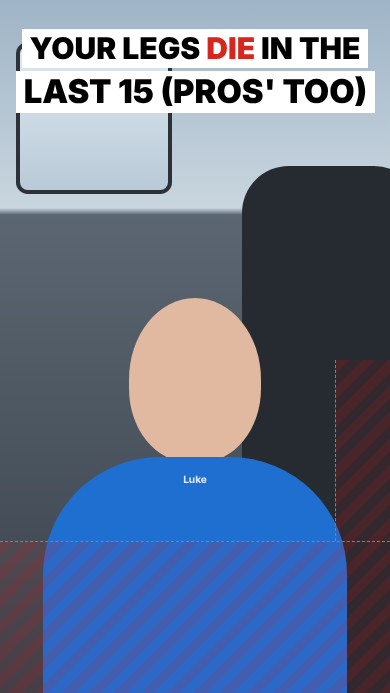
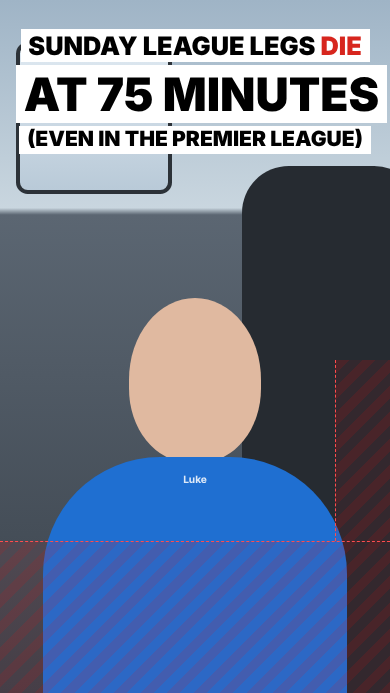
Match reel repackaged: SUNDAY LEAGUE LEGS DIE / AT 75 MINUTES / (EVEN IN THE PREMIER LEAGUE); walk reel killed; scorecard must-pass: every of what / in what / who answered on screen (Luke 17 Nov)
Claude-Session: https://claude.ai/code/session_01C5bFwjsy7wubJR84HAMdDJ

Changed region(s): [[0.0308, 0.0303, 1.0, 0.2424]]

diff --git a/ideas/engine-room-nutrition/2026-11-17-script-match-last-15.md b/ideas/engine-room-nutrition/2026-11-17-script-match-last-15.md
@@ -4,26 +4,27 @@ gate: v1
 brief_ok: Luke 17 Nov ("I'd like to also do that one I had about the matches today... give me both"); brief ideas/engine-room-nutrition/2026-11-16-brief-match-last-15.md
 generated_at: 2026-11-17
 teleprompter: 2026-11-17-teleprompter-match-last-15.txt
+luke_note: 17 Nov, Luke: "last 15 of what? pros in what? what sport?" Title repackaged to name the sport (Sunday league), the minute (75) and, on his yes, the Premier League bracket; line one and stage 1 changed to match
 fixed_after_review: G21 (caption plan for a 10:30am and a 2pm kick-off: meal times, about 2 g/kg for 60, 75 and 90 kg with the food, 30 g after the warm-up and at half-time), G22 (Premier League line cut: under 1.5 g/kg sits inside the 1 to 3 g/kg guideline; 'on a high-carb diet for 2 days'; 'just because you're unfit'; a 'Match day fuel, soccer' block added to FACTS), G23 ('a 30 gram gel or 6 jelly sweets'; porridge for a morning match, pasta in the afternoon), G29 (new line-one shape; new follow line)
 basis: the brief (the levers, the facts, the pre-mortem); UEFA expert group statement on nutrition in elite football (Collins and others, BJSM 2021: pre-match meal 1 to 3 g/kg 3 to 4 hours before kick-off; about 30 to 60 g after the warm-up and again at half-time; 6 to 8 g/kg a day around matches), read from the full text 17 Nov; Harper 2017 (60 g per 500 ml: 250 ml after the warm-up and 250 ml at half-time); Mohr 2003; Krustrup 2006; Balsom 1999; Anderson 2017; Wenger's first Arsenal away trip (1996)
 format: Instagram trial reel from ERN (non-followers; auto-share off, no collaborator), Tue 17 Nov. Not ERN TikTok (3 Nov: runners left at 0:03). Profile only if it beats 4K views and 40% skip at 24 hours, and not before 22 Nov (row 31: the fourth hour's twist)
 ---
 
-# YOUR LEGS DIE IN THE / LAST 15 (PROS' TOO)
+# SUNDAY LEAGUE LEGS DIE / AT 75 MINUTES
 
 ## Gate fields
-- OST: YOUR LEGS DIE IN THE / LAST 15 (PROS' TOO)
+- OST: SUNDAY LEAGUE LEGS DIE / AT 75 MINUTES
 - OST score: 10/10 (OST-SCORECARD.md, P210; the 2-line rebuild of SUNDAY LEAGUE LEGS DIE / IN THE LAST 15 / (SO DO THE PROS) after the 17 Nov pre-mortem)
-- Markers: THE DAY BEFORE / 3 HOURS BEFORE / WARM-UP AND HALF-TIME / THE LAST 15
-- Gap phrase: go in the last 15 minutes
+- Markers: THE DAY BEFORE / 3 HOURS BEFORE / WARM-UP AND HALF-TIME / THE LAST 15 MINUTES
+- Gap phrase: legs go at 75 minutes
 - Repeat line: fitness gets you to the last 15, but fuel gets you through it
 - Gap held by: "That's the empty 15, when the lad you skinned beats you to every ball, but you can fill it."
-- Gap closed by: THE LAST 15
+- Gap closed by: THE LAST 15 MINUTES
 - Turn: "When players had muscle taken from their legs after a match, about half the fibres were nearly empty."
 - Frame one: Luke and the title only, top band, full width, black bold on white, DIE in red (P205, P207); nothing else until stage 1; Luke in a football top or plain top, not a running top
 - Frame one words: title only
 - Mockup: ideas/engine-room-nutrition/mockups/2026-11-17-match-frame-one.png
-- Layer title: your legs die in the last 15, and the pros' legs too (why? and what do the pros do?)
+- Layer title: Sunday league legs die at 75 minutes, and Premier League ones fade too (why? and what fixes it?)
 - Layer picture: none (Luke and the title)
 - Layer line one: new to the title (row 29): it isn't your fitness; the legs are nearly empty
 - Worked example goal: none (a 75 kg player's pre-match meal in the caption)
@@ -62,13 +63,13 @@ you can fill it"). No save in the hook (P204). New shape against the last three
 
 ## Script
 
-"Your legs don't go in the last 15 minutes of a Sunday league match just because you're unfit. When players had muscle taken from their legs after a match, about half the fibres were nearly empty."
+"If your legs go at 75 minutes in Sunday league football, it isn't just your fitness. When players had muscle taken from their legs after a match, about half the fibres were nearly empty."
 
 "That's the empty 15, when the lad you skinned beats you to every ball, but you can fill it."
 
 **[THE DAY BEFORE]**
 
-"Even top pros do over a third less hard running in their last 15 than their first. So the fix starts the day before your game. Make half your plate pasta, rice or potatoes at every meal. Players on a high-carb diet for 2 days did about a third more hard running in a match."
+"Even Premier League players do about a fifth less hard running in their last 15 minutes than their first. So the fix starts the day before your game. Make half your plate pasta, rice or potatoes at every meal. Players on a high-carb diet for 2 days did about a third more hard running in a match."
 
 "Save this and check it the day before your next game."
 
@@ -84,7 +85,7 @@ you can fill it"). No save in the hook (P204). New shape against the last three
 
 "Here's what the last 15 looks like when your legs aren't empty."
 
-**[THE LAST 15]**
+**[THE LAST 15 MINUTES]**
 
 "From the hour mark, players who took carbs at half-time were quicker on the ball. So when it goes over the top at 80, you've still got the legs to chase it. Fitness gets you to the last 15, but fuel gets you through it."
 
@@ -114,7 +115,7 @@ Want your own match-day plan? Email us your sport and kick-off time through the 
 | Claim | Source | Status |
 |---|---|---|
 | Not just because you're unfit; after a match about half the fibres in players' legs were nearly empty | FACTS (Match day fuel: Krustrup 2006, about 47% empty or almost empty) | Pass |
-| Top pros do over a third less hard running in their last 15 than their first | FACTS (Mohr 2003, 35 to 45%) | Pass |
+| Premier League players do about a fifth less hard running in their last 15 minutes than their first | FACTS (Bradley 2009, about 20% less high-intensity running, 28 Premier League matches, 2005-06) | Pass (gate chat: confirm the figure against the paper) |
 | Players on a high-carb diet for 2 days did about a third more hard running in a match | FACTS (Balsom 1999, 33%) | Pass |
 | Half your plate pasta, rice or potatoes at every meal the day before | Our translation of UEFA's 6 to 8 g/kg a day (FACTS) | Luke to OK |
 | Eat 3 to 4 hours before kick-off: porridge for a morning match, pasta in the afternoon | FACTS (UEFA 1 to 3 g/kg, 3 to 4 h before) | Pass |

diff --git a/CLAUDE.md b/CLAUDE.md
@@ -216,7 +216,7 @@ a new cause becomes a new row in the same turn.**
 
 **As of 4 November 2026.**
 
-**Tue 17 Nov, two reels gated (ideas chat, Luke: "the two posts for today and the scripts"):** (1) **WALK AT 2.5K / OR YOU'LL WALK AT 32K** (10/10, AT 32K red; replaces the 3-line ULTRARUNNERS title), profile collab + FB + ERN TikTok, `ideas/engine-room-nutrition/2026-11-17-script-walk-on-purpose.md`, one review, 5 fixed; Luke to OK his ultra line and the title's 32K claim. (2) **YOUR LEGS DIE IN THE / LAST 15 (PROS' TOO)** (10/10, DIE red; soccer), IG trial reel from ERN only, `ideas/engine-room-nutrition/2026-11-17-script-match-last-15.md`, one review, 4 fixed; FACTS "Match day fuel, soccer" added (UEFA 2021 read from the full text; the Premier League under-eating line cut). Mockups `ideas/engine-room-nutrition/mockups/2026-11-17-*-frame-one.png`.
+**Tue 17 Nov, two reels gated (ideas chat, Luke: "the two posts for today and the scripts"):** (1) The walk reel is **killed** (Luke: "walk at 2.5K of what?"; he runs from the start, he doesn't walk). (2) Match reel repackaged after Luke's "last 15 of what? pros in what sport?": **SUNDAY LEAGUE LEGS DIE / AT 75 MINUTES / (EVEN IN THE PREMIER LEAGUE)** (10/10, DIE red; the bracket needs Luke's yes; Bradley 2009 Premier League fade in FACTS; new must-pass on the scorecard: every of what / in what / who answered on screen), IG trial reel from ERN only, `ideas/engine-room-nutrition/2026-11-17-script-match-last-15.md`, one review, 4 fixed; FACTS "Match day fuel, soccer" added (UEFA 2021 read from the full text; the Premier League under-eating line cut). Mockups `ideas/engine-room-nutrition/mockups/2026-11-17-*-frame-one.png`.
 
 **17 Nov, YouTube long-form chat set up:** `youtube/README.md` (monthly calendar, links to podcast and emails); brief `youtube/2027-framework-brief.md`: OUR 2027 FRAMEWORK, Sun 3 Jan, 18 min, built on the tank (about 500 g runs short at about 3 hours): fill it (8 to 10 g/kg), spend it slower (first 10K), top it up (30 g every 30), check it (10K signs); cold open the 4:02 sub-4 finish; email reason a race page with their four numbers; waiting on Luke's 6 answers. Later 17 Nov: the Art O'Neill documentary (race Fri 15 Jan) takes February's slot, out Sun 31 Jan; shot list in the README; title rewritten without the job line (voice.md); Seville guide moved to reels. Then (P214, P215): documentary title 8 WEEKS TO BEAT 10:35 (A 62KM NIGHT RACE, WITH A FULL-TIME JOB): the goal is top 10 in his class (10:35:37 last year), never "top 10" alone; chapter 1 is the bet from podcast ep 1 (Fri 20 Nov) plus the Sat 21 Nov benchmark. P216: no crew, phone only and optional; the documentary is 10 to 12 min, mostly the podcast's bet and result episodes plus 4 phone clips; Jamie an equal co-host (framework: two parts each); Luke's questions cut to 3. Podcast every Sunday from 22 Nov, so long-form moves to Saturdays: framework Sat 2 Jan, documentary Sat 30 Jan, built on the episode 1 predictions replayed against the result episode (Sun 17 Jan). Podcast name: see the podcast plan (ON FUMES recommended); the bar is out of the framework video (an implied claim next to "faster than you deserve").
 

diff --git a/ideas/engine-room-nutrition/OST-SCORECARD.md b/ideas/engine-room-nutrition/OST-SCORECARD.md
@@ -26,6 +26,11 @@ why: Luke, 13 Nov: "you keep reverting to the mean... playing it safe, plain, bo
 - **First, one question:** can the viewer answer the title about themselves in
   one second ("which one are you?")? If yes, it's dead before it's scored.
 
+**The stranger's questions, must-pass (Luke 17 Nov, "last 15 of what? pros in what? what sport? I've told you 100 times"; a repeat of G11 "in what?" and P180, my miss):**
+- Read the title as a stranger and write every "of what? in what? where? who?" it raises. Each must be answered **on screen**, not in line one: the event or sport named (MARATHON, SUNDAY LEAGUE), every number with its unit and its thing (75 MINUTES, 32K, 2.5K OF A MARATHON), every group named exactly (PREMIER LEAGUE, not PROS).
+- WALK AT 2.5K (of what? a parkrun?) and LAST 15 (of what?) / PROS (in what?) both failed this and scored 10. Any unanswered question = 0 on test 3.
+- Never put a habit in Luke's mouth he hasn't told us ("I walk from the start": he runs). His own practice is "Luke to OK" before it reaches a title or line one.
+
 **Tighter wording (16 Nov, pre-mortem 2):**
 - Test 7 fails if the topic is already a common video on other running
   accounts, whatever bracket is added.
@@ -64,3 +69,6 @@ why: Luke, 13 Nov: "you keep reverting to the mean... playing it safe, plain, bo
 | COUNTY PLAYERS EAT / HALF THE CARBS THEY / NEED BEFORE A MATCH (GAA) | 1 | 1 | 1 | 1 | 1 | 1 | 1 | 0 | 0 | 1 | **8** (banked for the championship; needs the paper) |
 | **WALK AT 2.5K / OR YOU'LL WALK AT 32K** (17 Nov, replaces ULTRARUNNERS WALK / ON PURPOSE. / MARATHONERS WALK AT 32K) | 1 | 1 | 1 | 1 | 1 | 1 | 1 | 1 | 1 | 1 | **10**. The 17 Nov pre-mortem: the old title's first word was us (ULTRARUNNERS), its first line needed the third to make sense, and 3 lines need Luke's sign-off under G10. Now an order that sounds mad first, the threat second, 2 lines (12 + 21). Risk: run/walk is known in the US; ours is a race plan tied to the gel clock. The 32K claim is ours (reviewer G22): Luke to OK |
 | **YOUR LEGS DIE IN THE / LAST 15 (PROS' TOO)** (17 Nov, the 2-line rebuild of SUNDAY LEAGUE LEGS DIE / IN THE LAST 15 / (SO DO THE PROS)) | 1 | 1 | 1 | 1 | 1 | 1 | 1 | 1 | 1 | 1 | **10**. YOUR in place of SUNDAY LEAGUE (line one names Sunday league), DIE on the top line, the sting kept, 2 lines (20 + 19). "AT 75 MINS" was cut: "your legs die at 75" reads as an age |
+| ~~WALK AT 2.5K / OR YOU'LL WALK AT 32K~~ | | | 0 | | | | | | | | **dead** (Luke 17 Nov: 2.5K of what? confusing; and he doesn't walk from the start) |
+| ~~YOUR LEGS DIE IN THE / LAST 15 (PROS' TOO)~~ | | | 0 | | | | | | | | **dead** (Luke 17 Nov: last 15 of what? pros in what sport?) |
+| **SUNDAY LEAGUE LEGS DIE / AT 75 MINUTES / (EVEN IN THE PREMIER LEAGUE)** (17 Nov) | 1 | 1 | 1 | 1 | 1 | 1 | 1 | 1 | 1 | 1 | **10**. Stranger's questions: in what? Sunday league football. 75 of what? minutes of the match. Pros where? the Premier League (Bradley 2009: about 20% less high-intensity running in the last 15 than the first 15). 3 lines need Luke's yes; without the bracket it's 9 |

diff --git a/FACTS.md b/FACTS.md
@@ -384,6 +384,7 @@ regulations PDF), Brighton (Cancer Research UK, realbuzz guide), Belfast
 
 ## Match day fuel, soccer (added 17 Nov 2026 by the ideas chat for YOUR LEGS DIE IN THE / LAST 15 (PROS' TOO), Luke asked for both scripts there; gate chat to check)
 - **The late fade:** top-class and moderate professionals did 35 to 45% less high-intensity running in the last 15 minutes than the first 15 (Mohr, Krustrup, Bangsbo, *J Sports Sci* 2003;21:519-28). Audio: "over a third less hard running". Not Premier League players: "top pros".
+- **The Premier League fade:** high-intensity running in the last 15 minutes was about 20% lower than in the first 15 (Bradley and others, *J Sports Sci* 2009;27(2):159-68; 28 Premier League matches, 2005-06; recovery between very high-intensity bouts about 28% longer late on). Audio: "about a fifth less hard running". Gate chat: confirm the figure against the paper.
 - **The empty fibres:** after a match, about 47% of leg muscle fibres were empty or almost empty of glycogen (Krustrup and others, *Med Sci Sports Exerc* 2006; 31 Danish fourth-division players). Sprints were slower after the game, but the drop didn't track total glycogen. Audio: "about half the fibres were nearly empty", and "it isn't just your fitness", never "it isn't your fitness" or "you run out of fuel".
 - **The day before:** players on a high-carb diet (about 65% carbs) for 2 days did about 33% more high-intensity running in a 90-minute 4-a-side game than on a low-carb one (Balsom and others, *Int J Sports Med* 1999; 6 players). Audio: "on a high-carb diet for 2 days... about a third more".
 - **The guideline (UEFA expert group statement, Collins and others, *BJSM* 2021, read from the full text 17 Nov):** 6 to 8 g/kg of carbs a day the day before and on match day; a carb-rich meal of 1 to 3 g/kg 3 to 4 hours before kick-off; about 30 to 60 g after the warm-up and again at half-time. Our worked meal uses about 2 g/kg (60 kg 120 g, 75 kg 150 g, 90 kg 180 g).

diff --git a/ideas/engine-room-nutrition/2026-11-17-script-walk-on-purpose.md b/ideas/engine-room-nutrition/2026-11-17-script-walk-on-purpose.md
@@ -1,5 +1,6 @@
 ---
 type: script (gated)
+status: KILLED by Luke 17 Nov ("walk at 2.5K of what? ... I don't walk from the very start, I run"). Not to be filmed. Kept as the record.
 gate: v1
 brief_ok: Luke 16-17 Nov ("give me the best OST with the pre-mortem... we have to post something"; 17 Nov "the two posts for today and the scripts"); brief ideas/engine-room-nutrition/2026-11-16-brief-walk-on-purpose.md
 generated_at: 2026-11-17
